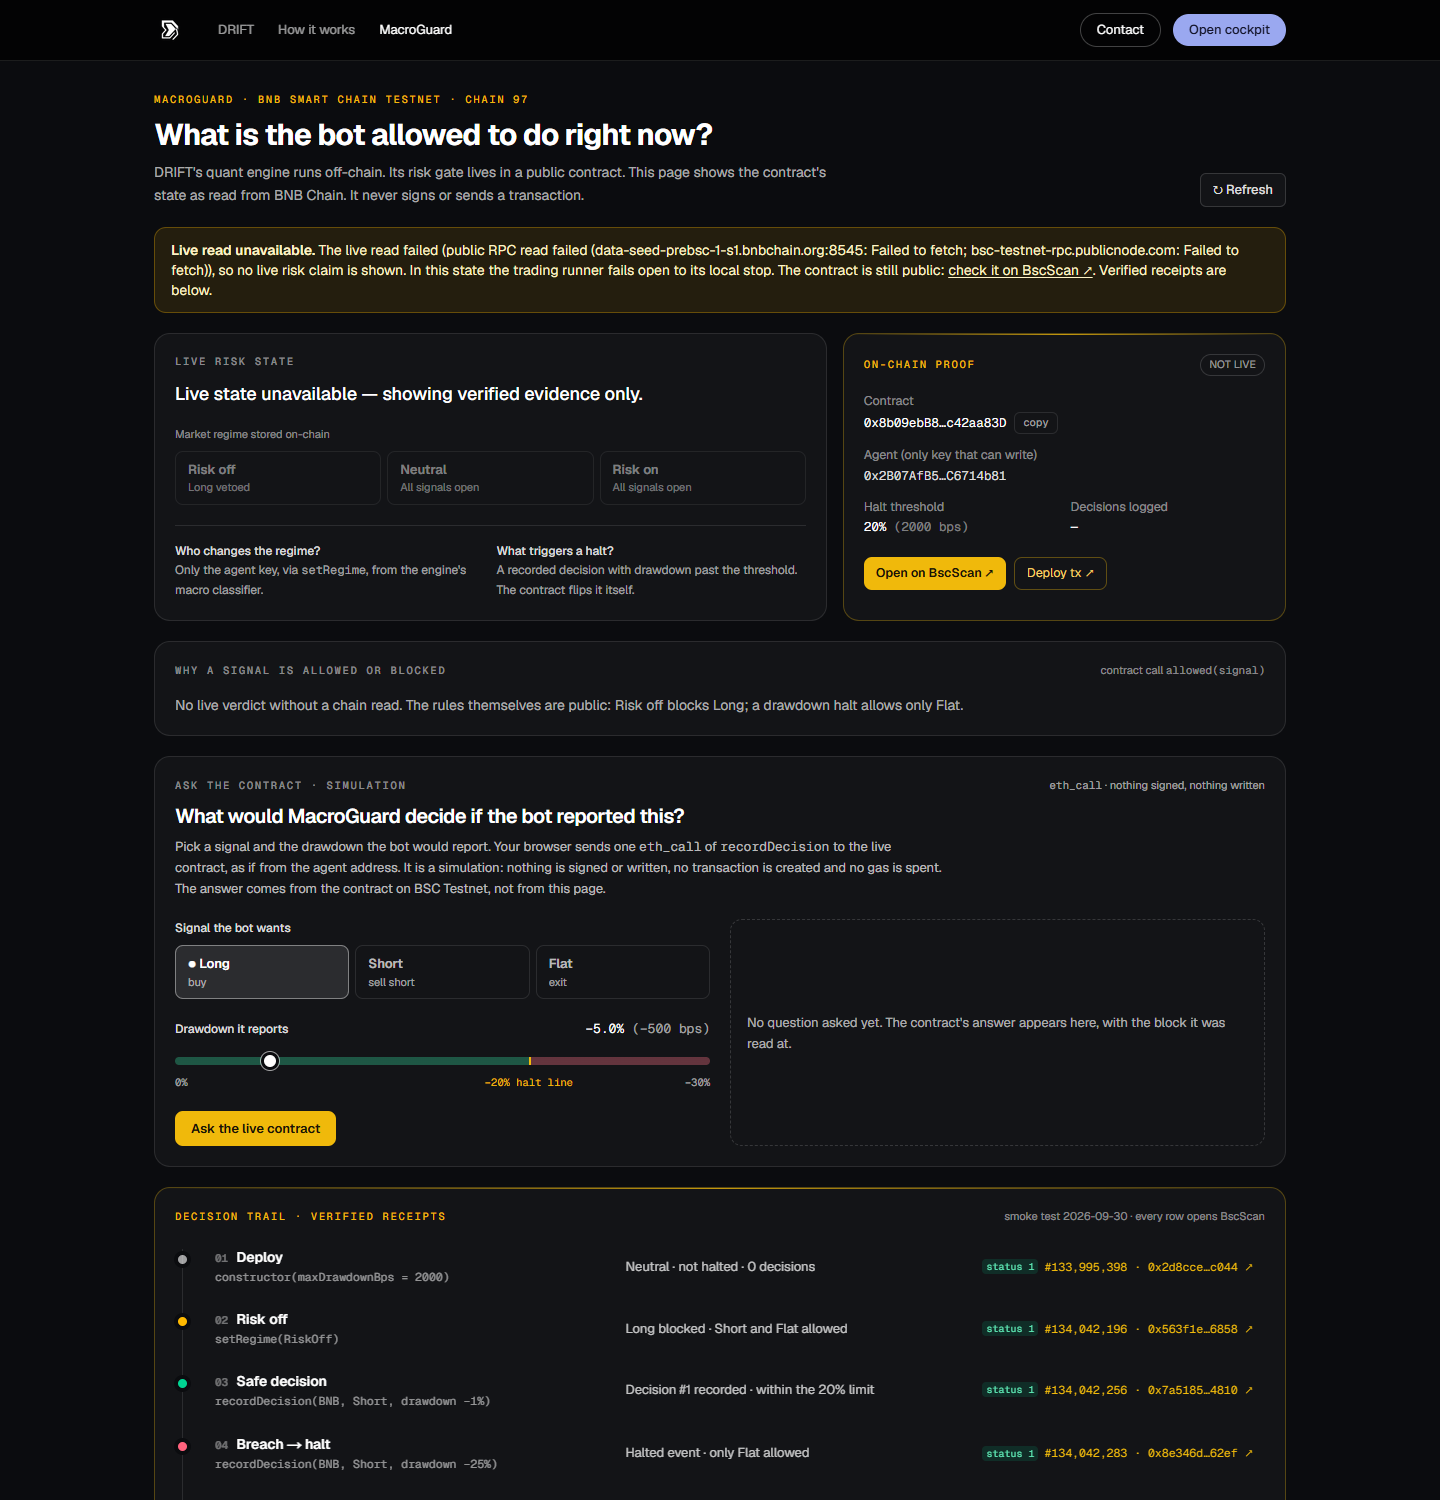
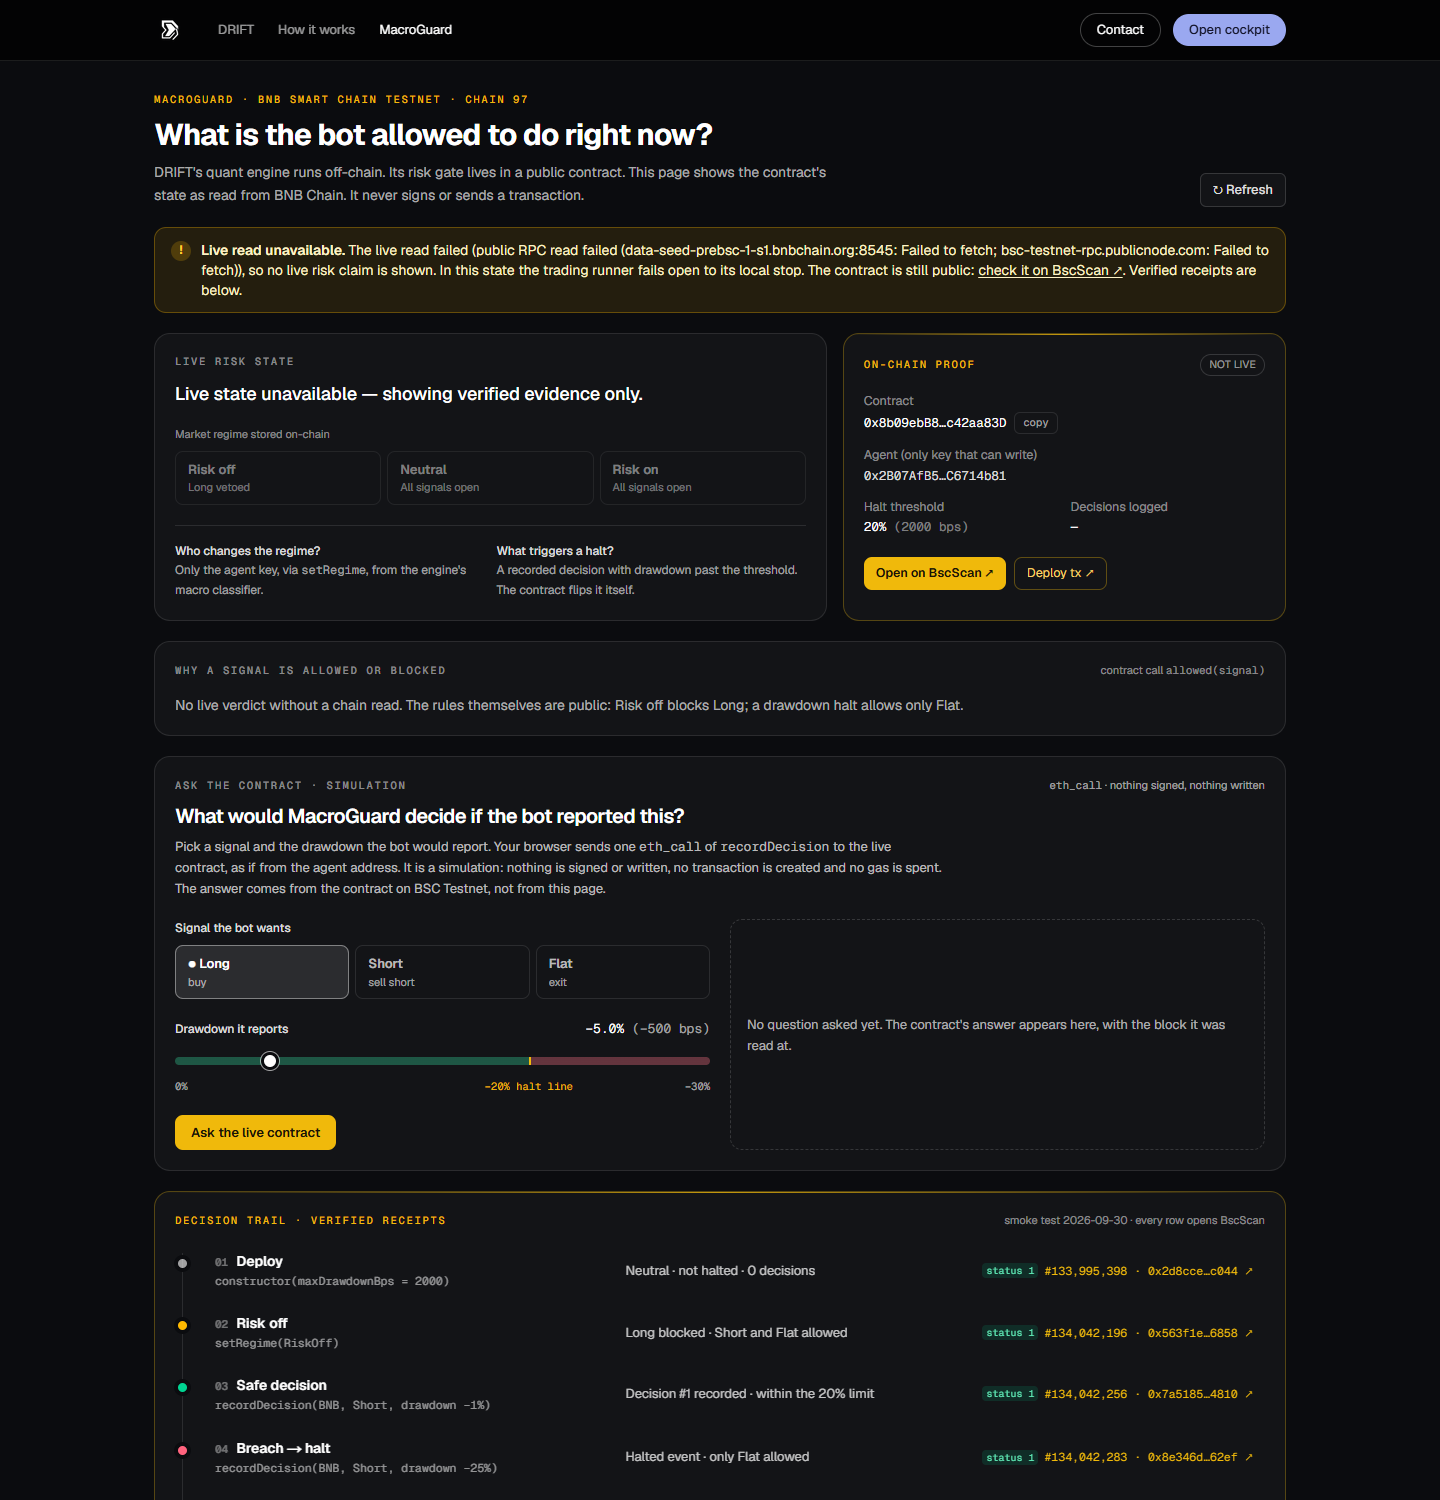
docs(drift): honest upstream note, traceable test claims, dated terminal captures
- What came from upstream: the upstream code names no author; its
  landing page listed only a contact email (site.ts at 52671ce), which
  this fork replaced with Dex's contact. Same note in License.
- The no-look-ahead paragraph drops its percentages and points to the
  assertions in test_backtester.py instead.
- Web tests: all 15 are Dex's (7 on 2 Oct, 8 on 3 Oct); engine suite
  now 47 passed plus 1 strict xfail; pytest command matches CI.
- Terminal recordings re-made at 16.17 WIB with the candle range in
  view and a note that the backtest chart is scaled from its minimum.
- Screenshots of /macroguard refreshed after the warning-icon fix; a
  link to the deck PDF joins the link row.

diff --git a/drift/README.md b/drift/README.md
@@ -6,7 +6,7 @@
 
 *Quant research runs off-chain. The risk gate, MacroGuard, is a public contract on BNB Smart Chain Testnet: anyone can read what the bot is allowed to do right now, ask the contract a what-if, and open every recorded decision on BscScan.*
 
-**[Live demo](https://drift-macroguard.vercel.app)** · **[Public risk gate: `/macroguard`](https://drift-macroguard.vercel.app/macroguard)** · Demo video: not published yet · **[Contract on BscScan (testnet)](https://testnet.bscscan.com/address/0x8b09ebB85Be8Ed55Bb5132d29eABc567c42aa83D)** · **[Source on Sourcify](https://repo.sourcify.dev/97/0x8b09ebB85Be8Ed55Bb5132d29eABc567c42aa83D)**
+**[Live demo](https://drift-macroguard.vercel.app)** · **[Public risk gate: `/macroguard`](https://drift-macroguard.vercel.app/macroguard)** · Demo video: not published yet · **[Contract on BscScan (testnet)](https://testnet.bscscan.com/address/0x8b09ebB85Be8Ed55Bb5132d29eABc567c42aa83D)** · **[Source on Sourcify](https://repo.sourcify.dev/97/0x8b09ebB85Be8Ed55Bb5132d29eABc567c42aa83D)** · **[Pitch deck (PDF)](docs/submission/DRIFT-pitch.pdf)**
 
 [![BNB Chain](https://img.shields.io/badge/Chain-BSC%20Testnet%20(97)-F0B90B?logo=binance&logoColor=white)](https://testnet.bscscan.com/address/0x8b09ebB85Be8Ed55Bb5132d29eABc567c42aa83D)
 [![Sourcify](https://img.shields.io/badge/Sourcify-exact%20match-2ea44f)](https://repo.sourcify.dev/97/0x8b09ebB85Be8Ed55Bb5132d29eABc567c42aa83D)
@@ -33,7 +33,7 @@ Dex Bennett's own MacroGuard deployment: [`0x8b09ebB85Be8Ed55Bb5132d29eABc567c42
 | 5 | `resume()` | Only the agent can resume, and it is on the record (`Resumed` event) | 134,042,318 · 27,030 | [`0xda57…18ae`](https://testnet.bscscan.com/tx/0xda579ebbf2969b855fe50b4520593fb267e33f4db062e0c71c48ca64b18d18ae) |
 | 6 | `setRegime(Neutral)` | Back to Neutral; Long allowed again; 2 decisions on-chain | 134,042,328 · 27,802 | [`0xa846…486b`](https://testnet.bscscan.com/tx/0xa846652354020a77b8c24ef8bb3e088ccecb63f4c2c3267c0a4377c57a39486b) |
 
-The same `setRegime(2)` sent from any other address (simulated with `eth_call` from `0x…dEaD`) reverts with `NotAgent()` (`0x0d9ab13f`). At the testnet gas price of 0.1 gwei, one recorded decision (33–34k gas) costs about 0.0000034 tBNB.
+A `setRegime(2)` sent from any other address (simulated with `eth_call` from `0x…dEaD`) reverts with `NotAgent()` (`0x0d9ab13f`). At the testnet gas price of 0.1 gwei, one recorded decision (33–34k gas) costs about 0.0000034 tBNB.
 
 **What this does not prove.** The contract does not execute exchange orders. The runner fails open to its local stop if the RPC is unreachable. The agent can `resume()` a halt at any time. The drawdown is reported by the agent, not measured by the contract. No live bot tick and no profit are claimed; backtests are research. Details: [`docs/THREAT-MODEL.md`](docs/THREAT-MODEL.md).
 
@@ -85,13 +85,13 @@ DRIFT's core (the quant engine, the cockpit and `MacroGuard.sol`) comes from the
 | 30 Sep | Own MacroGuard deployment on BSC Testnet and a five-transaction smoke test, all status 1 |
 | 1 Oct | PRD and visual direction; redesigned panel (live state, verdicts, receipt trail); landing story; phone layout; first deck |
 | 2 Oct | Source verified on Sourcify; contract reads straight from the browser; provenance and honest copy; public demo on Vercel |
-| 3 Oct | "Ask the contract"; labelled Binance data fallback; 23 contract tests, 45 engine tests and 8 web tests added; CI workflow; threat model; share card; this README; deck v2 |
+| 3 Oct | "Ask the contract"; labelled Binance data fallback; 23 contract tests, 47 engine tests and 8 web tests added; CI workflow; threat model; share card; this README; deck v2 |
 
 Commit history: [`dex/drift`, commits under `drift/`](https://github.com/Stylenecy/seed-bnb/commits/dex/drift/drift).
 
 ### What came from upstream
 
-The quant engine (`apps/trader`: strategies, backtester, optimizer, regime engine, live runner, LLM analyst, Telegram bot), the terminal, the web cockpit and `MacroGuard.sol`. The BNB Chain migration is the seed commit `52671ce` in `bcc-ukdw/seed-bnb` (29 Sep 2026), authored by `yeheskieltame`; its records are [`MIGRATION-BNB.md`](MIGRATION-BNB.md) and [`VERIFY-BNB.md`](VERIFY-BNB.md). The upstream repository does not name the original author of DRIFT. The four strategies are ported from [je-suis-tm/quant-trading](https://github.com/je-suis-tm/quant-trading).
+The quant engine (`apps/trader`: strategies, backtester, optimizer, regime engine, live runner, LLM analyst, Telegram bot), the terminal, the web cockpit and `MacroGuard.sol`. The BNB Chain migration is the seed commit `52671ce` in `bcc-ukdw/seed-bnb` (29 Sep 2026), authored by `yeheskieltame`; its records are [`MIGRATION-BNB.md`](MIGRATION-BNB.md) and [`VERIFY-BNB.md`](VERIFY-BNB.md). The upstream code names no author of DRIFT: its landing page listed only a contact email (`apps/web/src/features/landing/site.ts` at `52671ce`), which this fork replaced with Dex's own contact for the demo. The original author's name and the license will be added once confirmed. The four strategies are ported from [je-suis-tm/quant-trading](https://github.com/je-suis-tm/quant-trading).
 
 ---
 
@@ -100,10 +100,10 @@ The quant engine (`apps/trader`: strategies, backtester, optimizer, regime engin
 | Layer | Command | Count | Notes |
 |---|---|---|---|
 | Contract | `cd contracts && forge test` | 30 (7 upstream + 23 added) | Unit and event tests, 5 fuzz tests, 7 invariants over random agent and stranger call sequences. `forge coverage`: 100% of lines, statements, branches and functions in `MacroGuard.sol`. The contract itself is unchanged. |
-| Engine | `cd apps/trader && pip install -r requirements-dev.txt && python -m pytest` | 45 passed, 1 strict xfail | Offline: `.env` loading is disabled and any non-loopback connection fails the test. Covers no look-ahead as a property, the backtester's one-bar shift, the train/test split, the regime classifier, ChainGuard, the API and the data fallback. The xfail pins a known upstream bug (below). |
-| Web | `cd apps/web && npm test` | 15 (7 + 8 added) | Contract reads and the what-if encoder against `cast` fixtures, RPC fallback, reverts, wrong chain. |
+| Engine | `cd apps && pip install -r trader/requirements-dev.txt && python -m pytest trader/tests -c trader/pytest.ini` | 47 passed, 1 strict xfail | Offline: `.env` loading is disabled and any non-loopback connection or DNS lookup fails the test. Covers no look-ahead as a property, the backtester's one-bar shift, the train/test split, the regime classifier, ChainGuard, the API and the data fallback. The xfail pins a known upstream bug (below). |
+| Web | `cd apps/web && npm test` | 15 (7 added on 2 Oct, 8 on 3 Oct) | Contract reads and the what-if encoder against `cast` fixtures, RPC fallback, reverts, wrong chain. |
 
-**No look-ahead, tested as a property.** For every strategy, `positions(df[:k])` equals `positions(df)[:k]` at every cut `k`, and rewriting future candles never changes a past position. A "same-bar oracle" that peeks at its own candle would earn +845% on the test's synthetic random walk without the backtester's one-bar shift; with the shift it makes +4.8%, the luck of the walk.
+**No look-ahead, tested as a property.** For every strategy, `positions(df[:k])` equals `positions(df)[:k]` at every cut `k`, and rewriting future candles never changes a past position. A test strategy that cheats by trading on its own candle looks like a money machine without the backtester's one-bar shift and loses that edge with it (asserted on a seeded synthetic random walk in `apps/trader/tests/test_backtester.py`).
 
 **CI.** [`.github/workflows/drift-ci.yml`](../.github/workflows/drift-ci.yml) runs all three layers on every change under `drift/`: forge test and coverage, pytest, then `npm ci`, lint, node tests and `next build`.
 
@@ -133,7 +133,7 @@ It ships as three things on one engine:
 - `MacroGuard.sol` targets BNB Smart Chain Testnet (chain 97); mainnet (chain 56) is a config switch. Dex's deployment: [`0x8b09ebB85Be8Ed55Bb5132d29eABc567c42aa83D`](https://testnet.bscscan.com/address/0x8b09ebB85Be8Ed55Bb5132d29eABc567c42aa83D).
 - `allowed(signal)` is the veto gate: a drawdown at or past the line trips the halt until the agent calls `resume()`; risk off blocks new Longs.
 - When configured, the bot attempts `recordDecision(symbol, signal, price, drawdown)` on each tick. Successful transactions create a public decision record; failed or skipped writes do not. The recorded signal is the target after the veto.
-- A **regime engine** (`regime.py`) classifies BTC 1h candles into risk-on / neutral / risk-off using realised-vol z-score + EWMA trend, and pushes `setRegime` on-chain when the label changes and a key is configured.
+- A **regime engine** (`regime.py`) classifies BTC 1h candles into risk-on / neutral / risk-off using realised-vol z-score + EWMA trend, and pushes `setRegime` on-chain when the label changes and a key is configured. A regime classified from fallback data is shown, labelled, and never written on-chain.
 
 ### The public panel (`/macroguard`)
 - Reads the contract straight from the browser over two public RPCs (with fallback): chain id, code at the address, regime, halt, threshold, decision count and `allowed()` for each signal. No engine, key or wallet.
@@ -463,7 +463,7 @@ AUTH_SECRET=…
 - **Testnet-first.** Live trading is explicit opt-in; all orders go to Bybit testnet by default.
 - **Risk boundaries are explicit.** The local drawdown stop lives in `LiveRunner`; the bot queries `MacroGuard.allowed()` before orders. The contract cannot stop an exchange order by itself. If the RPC fails, the bot currently fails open under its local stop.
 - **No look-ahead, no fabricated fills.** Backtests are strictly point-in-time (tested as a property); live equity is read from the real account; the LLM is forbidden from inventing numbers.
-- **Labelled data.** A fallback to Binance public data is named in every response and view; live trading never uses it.
+- **Labelled data.** A fallback to Binance public data is named in every response and view; live trading never uses it, and a regime classified from it is never written on-chain.
 - **Secrets stay out of Git.** Keys entered in the web UI are held in memory. Keys supplied through `.env.local` are stored locally in that Git-ignored file; never commit or share it.
 - **The LLM never executes.** The analyst explains; the deterministic strategy + on-chain guard decide.
 - **Threat model:** [`docs/THREAT-MODEL.md`](docs/THREAT-MODEL.md).
@@ -474,7 +474,7 @@ AUTH_SECRET=…
 
 ## License
 
-The upstream README states that DRIFT is released under the MIT License, but the upstream tree ships no `LICENSE` file and does not name the original author. A `LICENSE` file will be added once the original author confirms the terms.
+The upstream README states that DRIFT is released under the MIT License, but the upstream tree ships no `LICENSE` file and names no author (only a contact email on its landing page, see [What came from upstream](#what-came-from-upstream)). A `LICENSE` file will be added once the original author confirms the terms.
 
 <div align="center">
 <sub>Strategies ported from <a href="https://github.com/je-suis-tm/quant-trading">je-suis-tm/quant-trading</a> · Market data from <a href="https://bybit-exchange.github.io/docs/v5/intro">Bybit V5</a> (Binance public data as a labelled fallback) · Risk gate on <a href="https://testnet.bscscan.com/address/0x8b09ebB85Be8Ed55Bb5132d29eABc567c42aa83D">BNB Chain</a></sub>

diff --git a/drift/SHOWCASE.md b/drift/SHOWCASE.md
@@ -54,19 +54,19 @@ The hero says what DRIFT is in one line and routes to the live gate. The proof s
 
 ## The terminal (`./drift`)
 
-Recorded on 3 Oct 2026 at 15.39 WIB by running the terminal's own commands and exporting Rich's output, with no keys configured. Bybit's API is unreachable from the recording network, so every view below ran on the **Binance public-data fallback** and says so in its last line.
+Recorded on 3 Oct 2026 at 16.17 WIB (09.17 UTC) by running the terminal's own commands and exporting Rich's output, with no keys configured. Bybit's API is unreachable from the recording network, so every view below ran on the **Binance public-data fallback** and says so, with the candle range it used, in its last lines.
 
 ### Auto-Research: optimised on 70%, scored on the held-out 30%
 
 ![Terminal: research btc 1h, leaderboard of four strategies with in-sample and out-of-sample Sharpe, out-of-sample return and verdict](docs/screens/cli/research-btc-1h.png)
 
-Historical simulation on 1,000 hourly BTCUSDT candles. Sharpe is annualised from hourly bars (×√8760), so a single month of data gives large values; "robust" only means both slices passed the 0.5 threshold on this one window. Research, not a profit claim.
+Historical simulation on 1,000 hourly BTCUSDT candles, 22 Aug 18.00 to 3 Oct 09.00 UTC (Binance spot). Sharpe is annualised from hourly bars (×√8760), so about six weeks of data gives large values; "robust" only means both slices passed the 0.5 threshold on this one window. Research, not a profit claim.
 
 ### Point-in-time backtest
 
 ![Terminal: backtest macd btc 1h with return, Sharpe, win rate, max drawdown, trade count and the equity chart](docs/screens/cli/backtest-macd-btc-1h.png)
 
-Historical simulation on 720 hourly candles; a position decided on one bar is earned on the next. Research, not a profit claim; past results do not predict future ones.
+Historical simulation on 720 hourly BTCUSDT candles, 3 Sep 10.00 to 3 Oct 09.00 UTC (Binance spot); a position decided on one bar is earned on the next. The equity chart is scaled from its own minimum to its maximum, not from zero, so a gain of a few percent fills the frame. Research, not a profit claim; past results do not predict future ones.
 
 ### Markets
 
